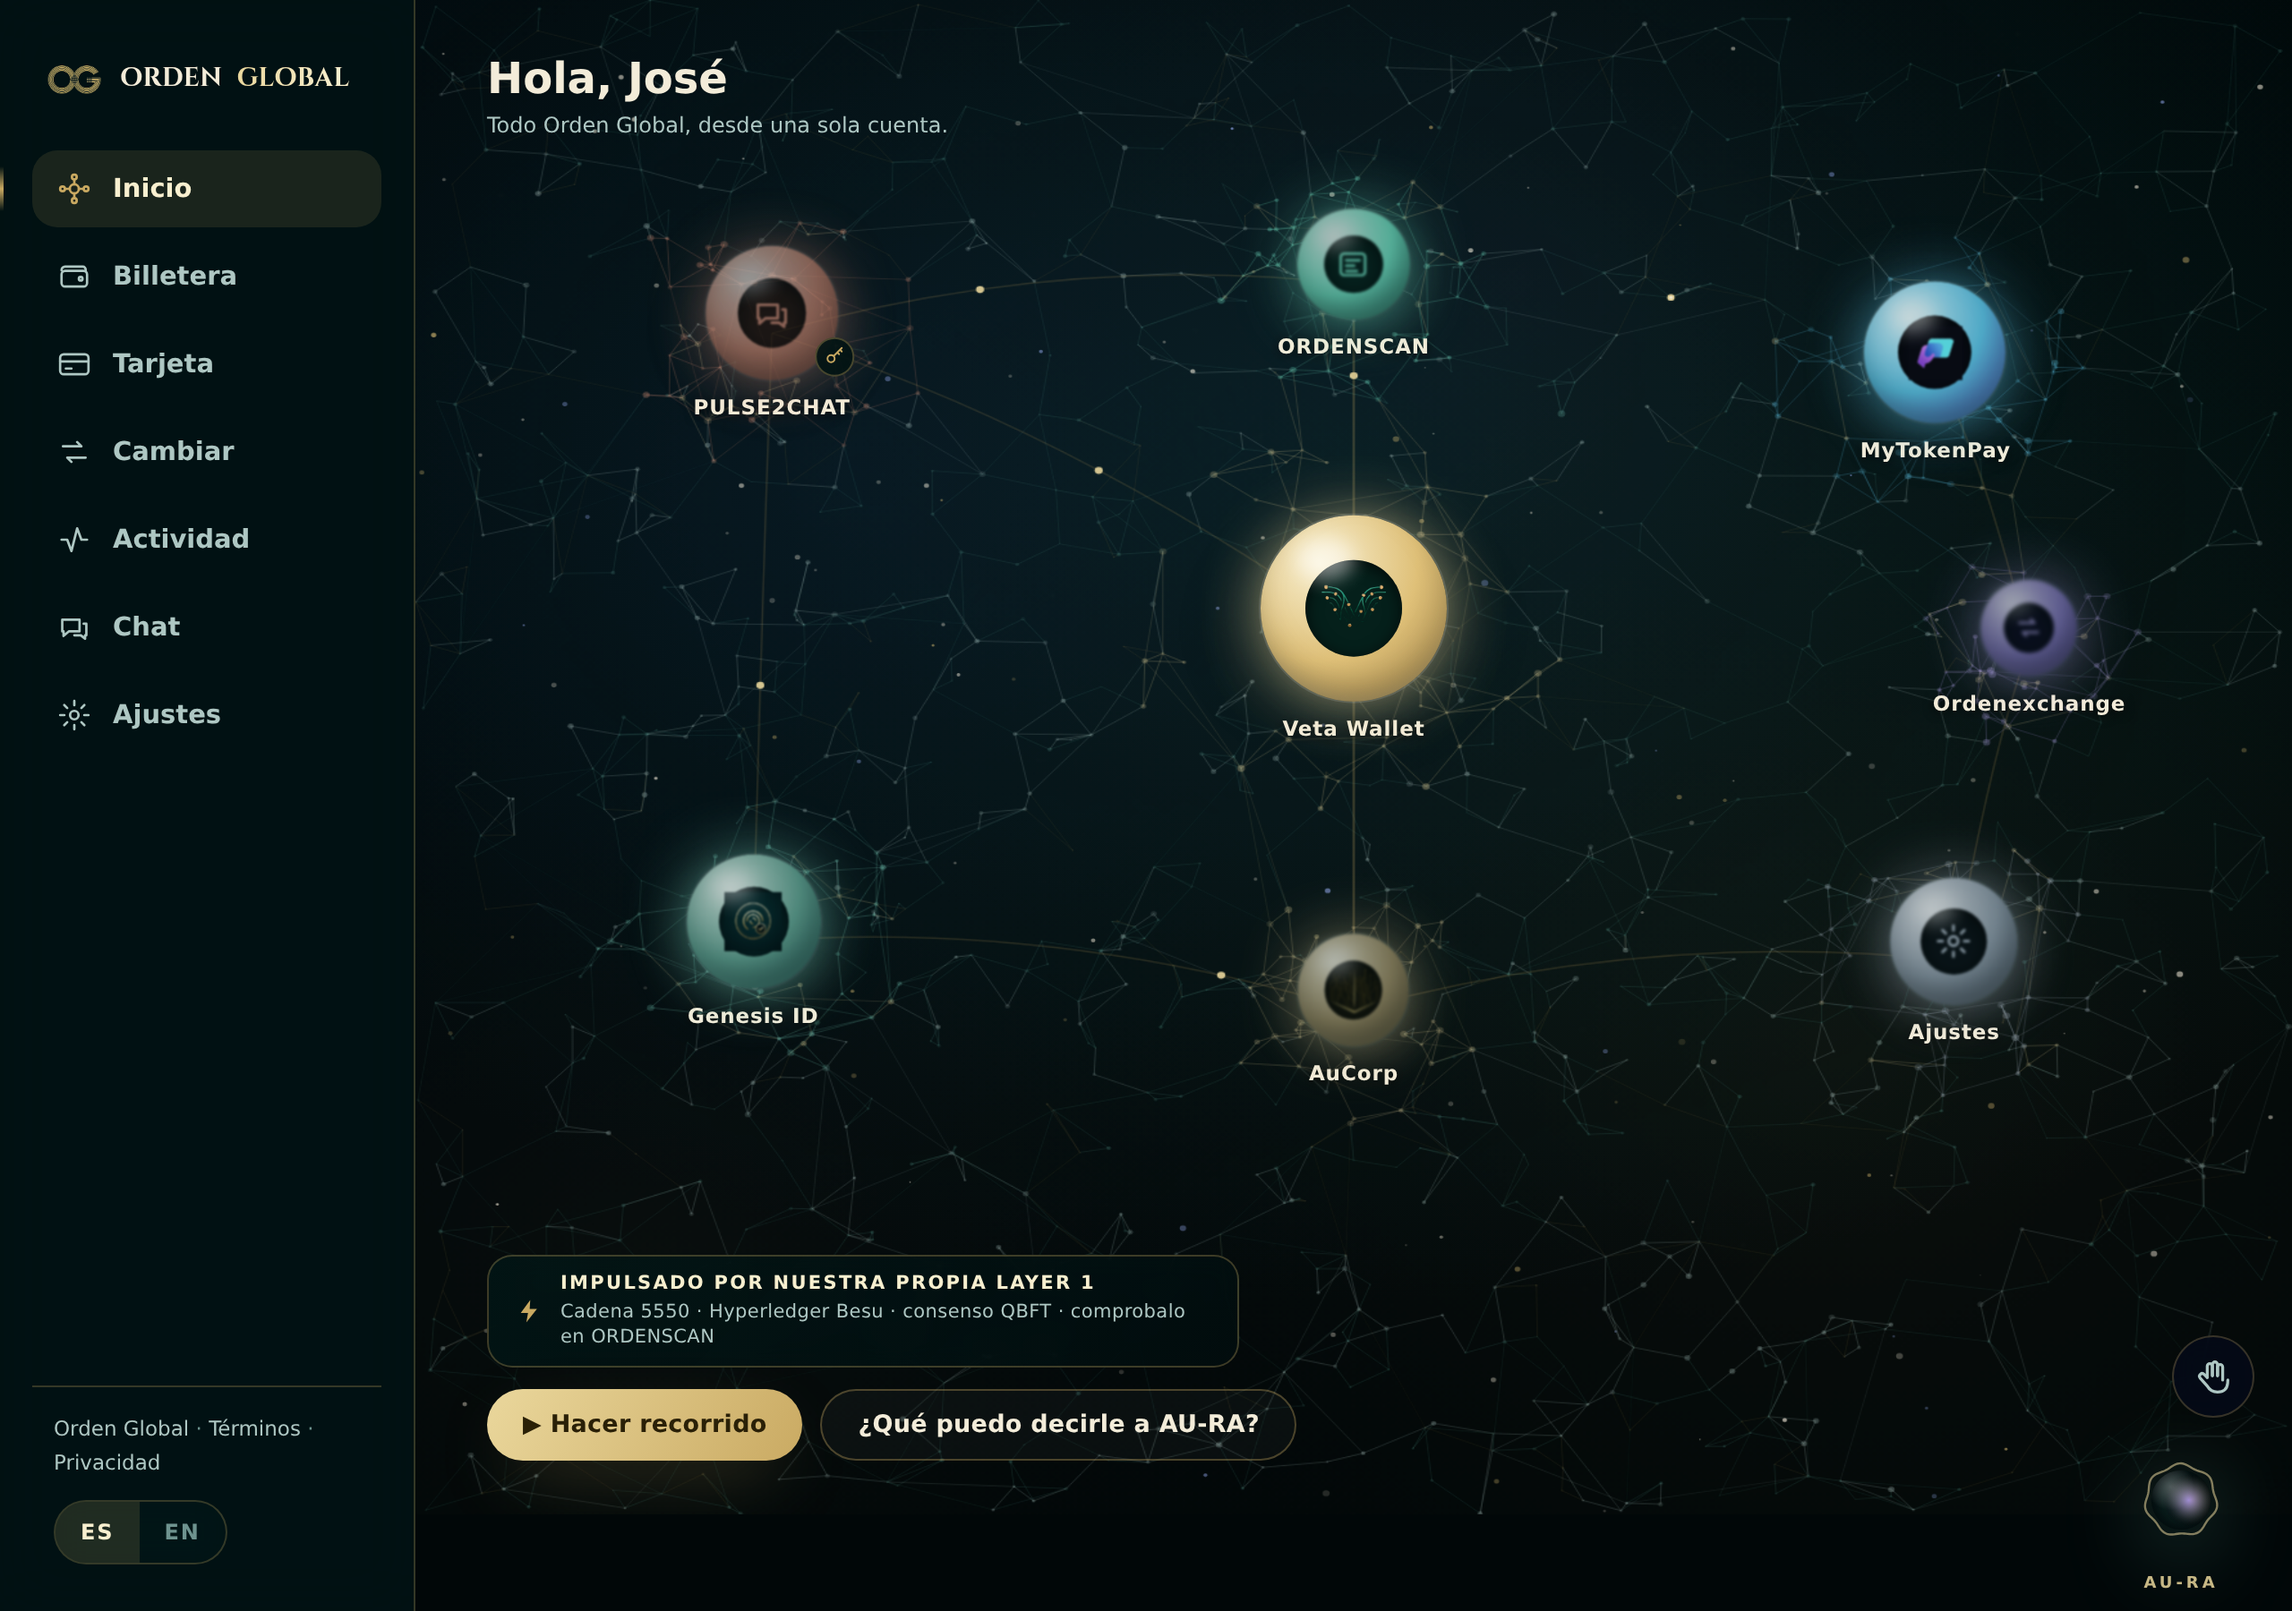
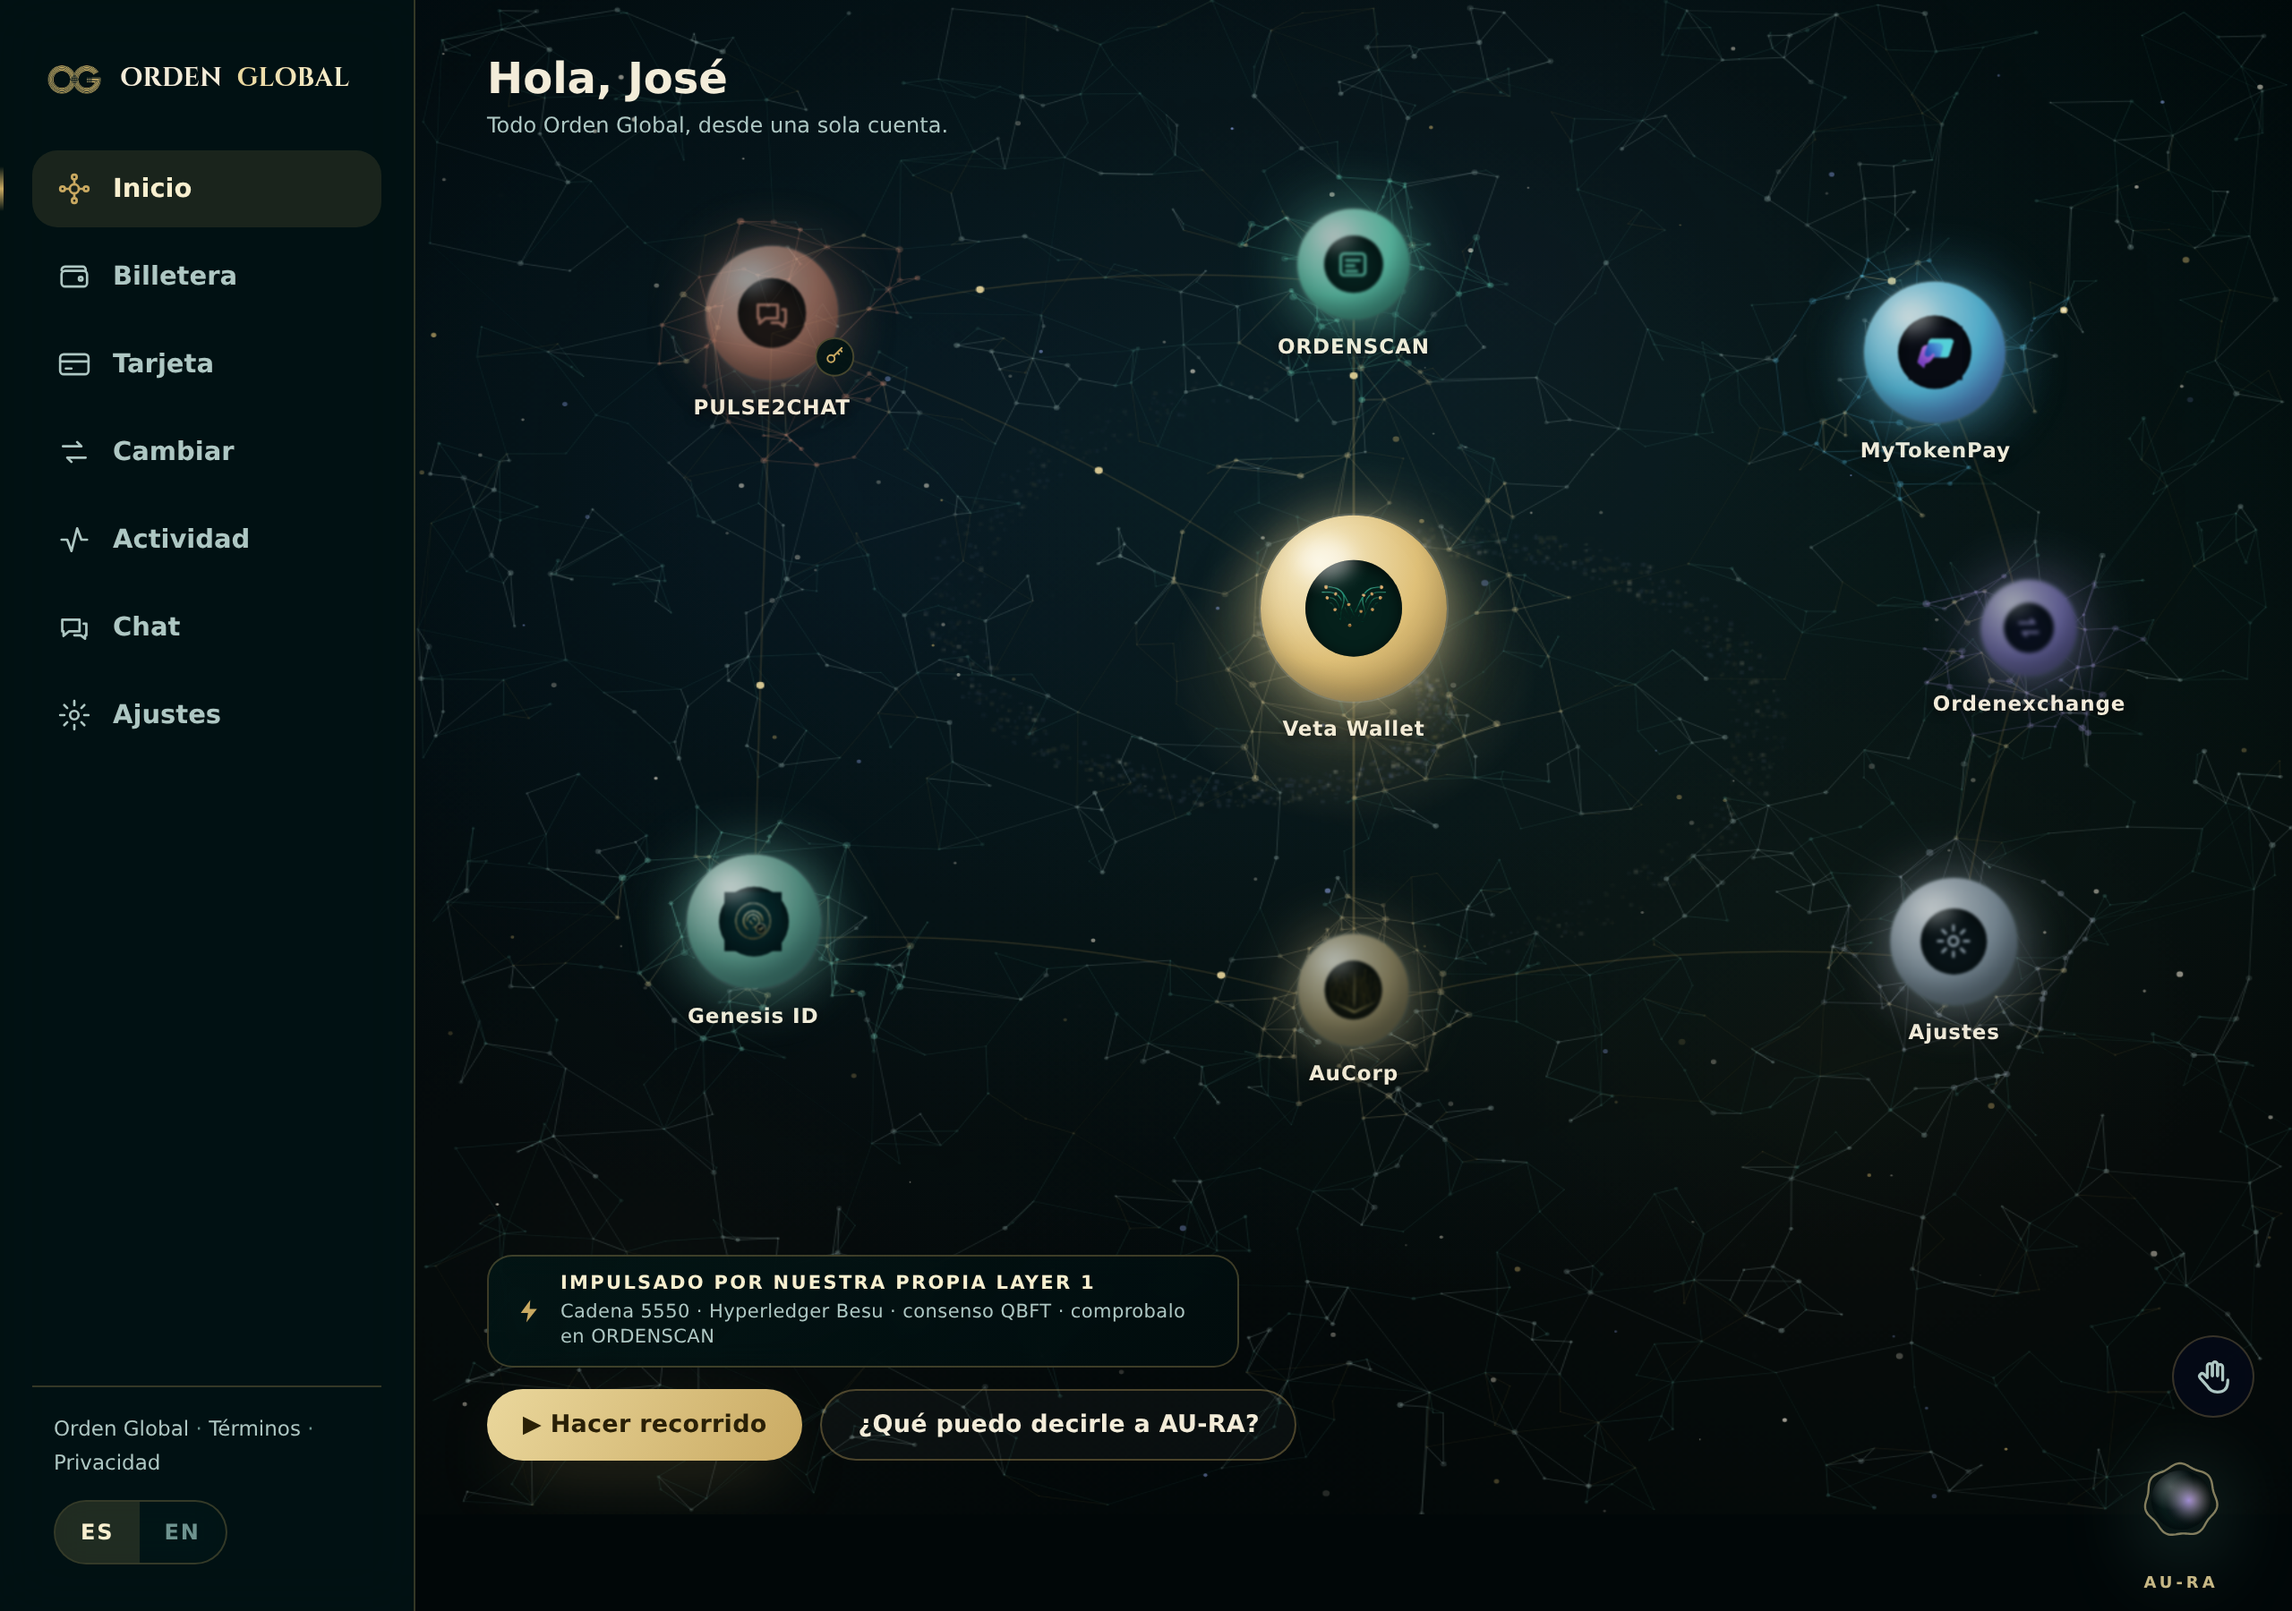
Una sola voz y un sol en el corazón
Treinta y tres de las setenta frases de AU-RA habían perdido su
grabación: cada texto que se edita cambia su clave FNV, el fichero
ya no se encuentra y la frase cae a la voz del navegador — el
«suena súper robótico» del inicio. Se regrabaron las setenta con la
voz de la casa (Piper, es_MX-claude y en_US-ryan, los mismos ajustes
elegidos de oído), se subieron al nodo del cerebro y el mapa
incrustado quedó completo: cero frases sin grabar, una sola voz.

Y el Inicio gana su corazón: un sol espiral de dos brazos de polvo
de estrellas, pintado una vez y estampado girando despacio detrás de
la constelación — el centro de la galaxia que las esferas orbitan.

Claude-Session: https://claude.ai/code/session_01K37q5QjnAm7tkAy4TCCnU3

Changed region(s): [[0.5312, 0.4044, 0.6562, 0.4978], [0.8438, 0.4044, 0.875, 0.4356], [0.2812, 0.2178, 0.3125, 0.2489]]

diff --git a/apps-web/veta-wallet/galaxia.js b/apps-web/veta-wallet/galaxia.js
@@ -88,6 +88,46 @@ const GALAXIA = (() => {
     }
   }
 
+  /* EL SOL ESPIRAL. El corazón de la galaxia del Inicio: dos brazos de
+     polvo de estrellas enroscados que giran despacio alrededor del centro,
+     pintados UNA vez en su propio lienzo y estampados girados cada cuadro —
+     la misma receta de la nebulosa, por el mismo costo. Solo vive en el modo
+     interior: en la puerta el protagonista es AU-RA. */
+  let sol = null;
+  let giroSol = 0;
+
+  function pintarSol() {
+    const l = 520;
+    sol = document.createElement('canvas');
+    sol.width = sol.height = l;
+    const c = sol.getContext('2d');
+    const az = alAzar(4747);
+    const cx = l / 2, cy = l / 2;
+    // el resplandor del núcleo
+    const g = c.createRadialGradient(cx, cy, 0, cx, cy, l * 0.16);
+    g.addColorStop(0, 'rgba(248,239,207,0.85)');
+    g.addColorStop(0.35, 'rgba(232,200,122,0.32)');
+    g.addColorStop(1, 'rgba(232,200,122,0)');
+    c.fillStyle = g;
+    c.fillRect(0, 0, l, l);
+    // dos brazos logarítmicos de polvo
+    for (let brazo = 0; brazo < 2; brazo++) {
+      for (let i = 0; i < 900; i++) {
+        const t = i / 900;
+        const ang = brazo * Math.PI + t * 4.6 + (az() - 0.5) * 0.5;
+        const r = 12 + t * (l * 0.46);
+        const x = cx + Math.cos(ang) * r;
+        const y = cy + Math.sin(ang) * r * 0.62;    // achatada: se ve de tres cuartos
+        const brillo = (1 - t) * 0.5 + az() * 0.25;
+        c.fillStyle = az() < 0.12
+          ? `rgba(248,239,207,${(brillo * 0.9).toFixed(2)})`
+          : `rgba(${az() < 0.5 ? '182,196,255' : '232,200,122'},${(brillo * 0.4).toFixed(2)})`;
+        const p = 0.6 + az() * 1.5;
+        c.fillRect(x, y, p, p);
+      }
+    }
+  }
+
   /* La nebulosa: tres velos de color sobre negro azulado, pintados una vez.
      El lienzo es MÁS GRANDE que la pantalla para poder girarlo sin que se
      vean las esquinas. Nada de verde: azul profundo, oro y un resto púrpura. */
@@ -194,6 +234,18 @@ const GALAXIA = (() => {
                   nebulosa.logico, nebulosa.logico);
     ctx.globalAlpha = 1;
     ctx.restore();
+
+    if (interior && sol) {
+      giroSol += 0.0009 * dt;
+      ctx.save();
+      ctx.translate(ancho * 0.5, alto * 0.44);
+      ctx.rotate(giroSol);
+      ctx.globalAlpha = 0.5;
+      const ls = Math.min(ancho, alto) * 0.66;
+      ctx.drawImage(sol, -ls / 2, -ls / 2, ls, ls);
+      ctx.globalAlpha = 1;
+      ctx.restore();
+    }
 
     const enSalto = salto ? Math.min(1, (ahora - salto.desde) / salto.dura) : 0;
     // aceleración del viaje: arranca suave y termina lanzado
@@ -331,6 +383,7 @@ const GALAXIA = (() => {
     ctx.setTransform(dpr, 0, 0, dpr, 0, 0);
     sembrar();
     pintarNebulosa();
+    if (interior && !sol) pintarSol();
     if (QUIETO.matches) cuadro(performance.now());   // un cielo quieto, entero
   }
 

diff --git a/apps-web/veta-wallet/aura.js b/apps-web/veta-wallet/aura.js
@@ -697,65 +697,75 @@ const AURA = (() => {
   const VOZ_BASE = 'https://cerebro.ordenscan.com/voz/aura/';
   const VOZ_NOMBRE = { es: 'es_MX-claude-high', en: 'en_US-ryan-high' };
   const VOZ_MAPA = {
+    '015f6d98': 1,
     '02e6279d': 1,
     '0a698dd6': 1,
     '0aa8d602': 1,
-    '0abc7817': 1,
+    '0bf754b0': 1,
     '11243db2': 1,
+    '115ee25b': 1,
     '1192a5d0': 1,
-    '1295b2be': 1,
+    '148e9d07': 1,
+    '1573914e': 1,
+    '15d50540': 1,
+    '1ca40620': 1,
     '1eef45ee': 1,
-    '2453771b': 1,
-    '252cd472': 1,
     '27893a96': 1,
+    '298082c1': 1,
     '2b30e4f6': 1,
     '2d74f75e': 1,
     '3101125c': 1,
     '310fbb99': 1,
     '332361ae': 1,
-    '36c255d7': 1,
-    '3c6e2bfd': 1,
+    '339ebfa9': 1,
+    '46fcd677': 1,
+    '47ca6112': 1,
     '4f5bde62': 1,
+    '5255aae0': 1,
     '5282566d': 1,
-    '53061f13': 1,
-    '553f3f65': 1,
     '57336e47': 1,
-    '59321a82': 1,
+    '59c6ebc7': 1,
+    '5da7efbe': 1,
     '612e9ecd': 1,
     '63614b00': 1,
-    '652d33e2': 1,
-    '66d9368a': 1,
     '677d2a34': 1,
+    '720cefa7': 1,
     '725dd181': 1,
     '7800d0d3': 1,
+    '7c4340f6': 1,
     '7c4f68af': 1,
+    '803aff75': 1,
     '82715749': 1,
-    '8d89f9e6': 1,
     '8dc001b9': 1,
-    '8dc9a96e': 1,
+    '8e6d8cc3': 1,
+    '8ed00704': 1,
+    '920ff795': 1,
     '98f8ef44': 1,
+    'a02493cd': 1,
     'a27b1467': 1,
-    'a4356c62': 1,
-    'a6789581': 1,
-    'ae407c8f': 1,
-    'b07bb38d': 1,
+    'a3c4dd61': 1,
+    'b378e978': 1,
     'b43b4c43': 1,
+    'b4d3cf6c': 1,
+    'b4e4d773': 1,
     'bab54a0a': 1,
     'bcb5c233': 1,
-    'bea8e877': 1,
     'bf2a7740': 1,
-    'c31085c2': 1,
-    'd1605a1e': 1,
+    'c2e44ee4': 1,
+    'c8ed5fd0': 1,
+    'cfcefac7': 1,
+    'd0829067': 1,
     'd53038d9': 1,
     'd64dfe40': 1,
     'd6c5fd6e': 1,
-    'd7e0b3e7': 1,
+    'e3ec5077': 1,
     'e4c0c0ec': 1,
     'eb4090e0': 1,
     'ec73b95b': 1,
+    'ee1dea2e': 1,
+    'f1006fab': 1,
     'f5f84782': 1,
-    'f9539766': 1,
-    'fd0e7868': 1,
+    'fbaabd6a': 1,
     'ff1bf3db': 1,
   };
 
